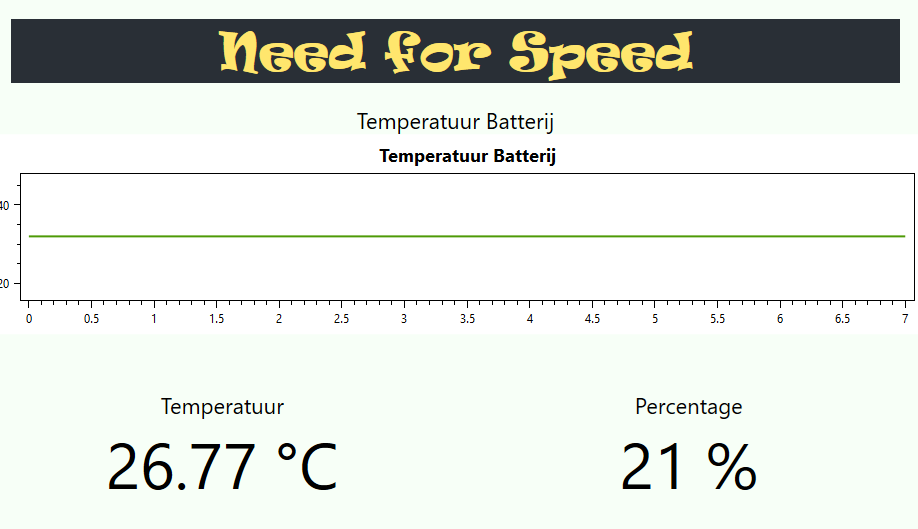
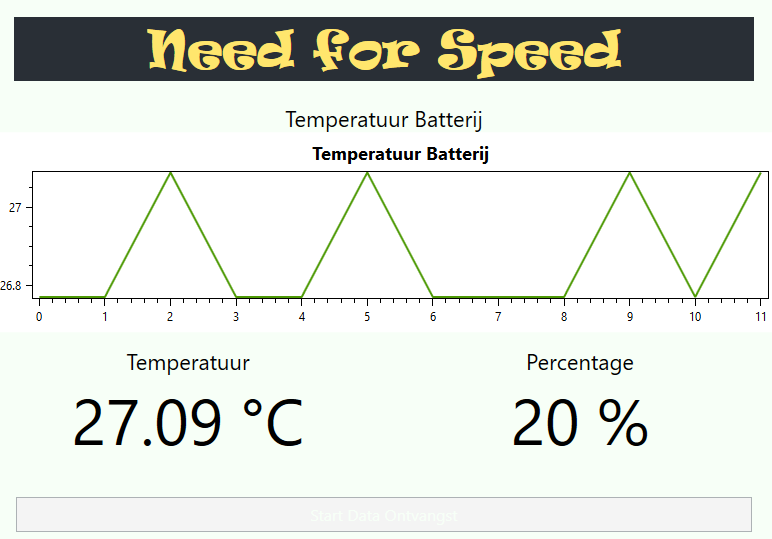
Add screenshot of final result

diff --git a/slides/12-mqtt-with-csharp/README.md b/slides/12-mqtt-with-csharp/README.md
@@ -805,7 +805,7 @@ Dispatcher.Invoke(delegate
 
 Normaal zou je nu data op de grafiek moeten zien verschijnen na een tijd. Het is niet de meest fancy grafiek ooit, maar het is een mooi begin.
 
-TODO: Screenshot
+![bg fit left:65%](./img/final-result.png)
 
 ---
 
